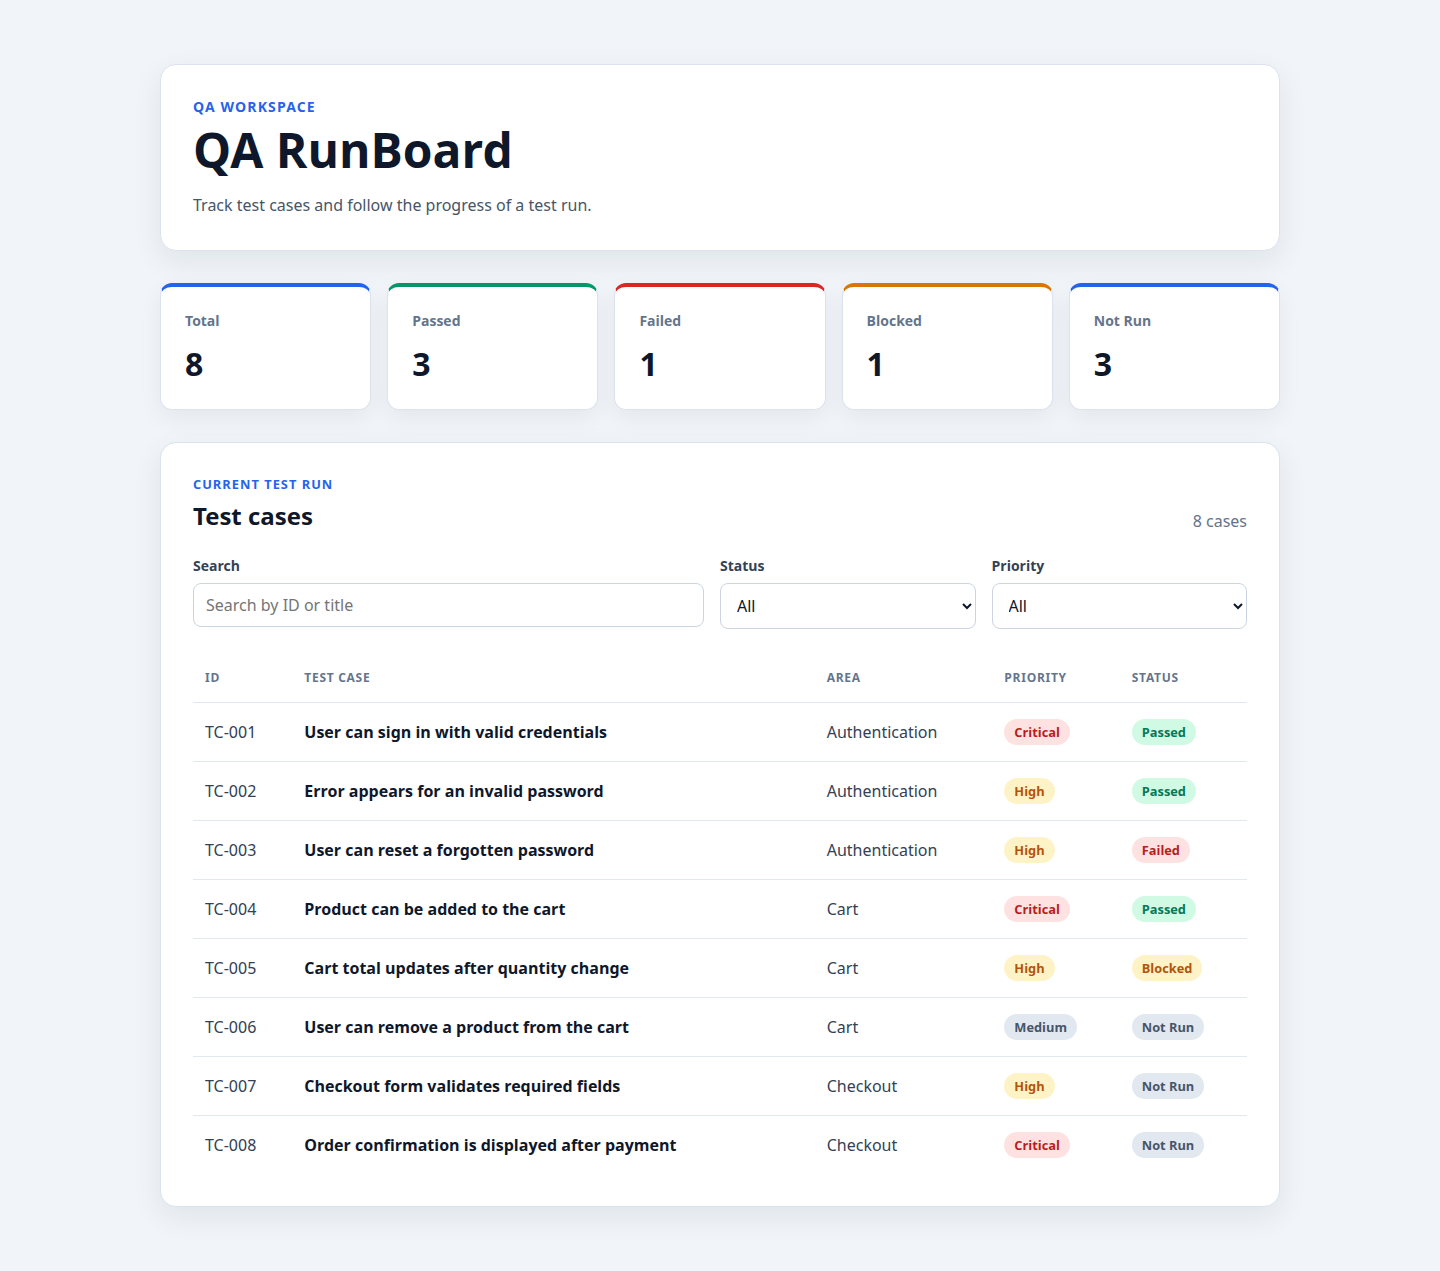
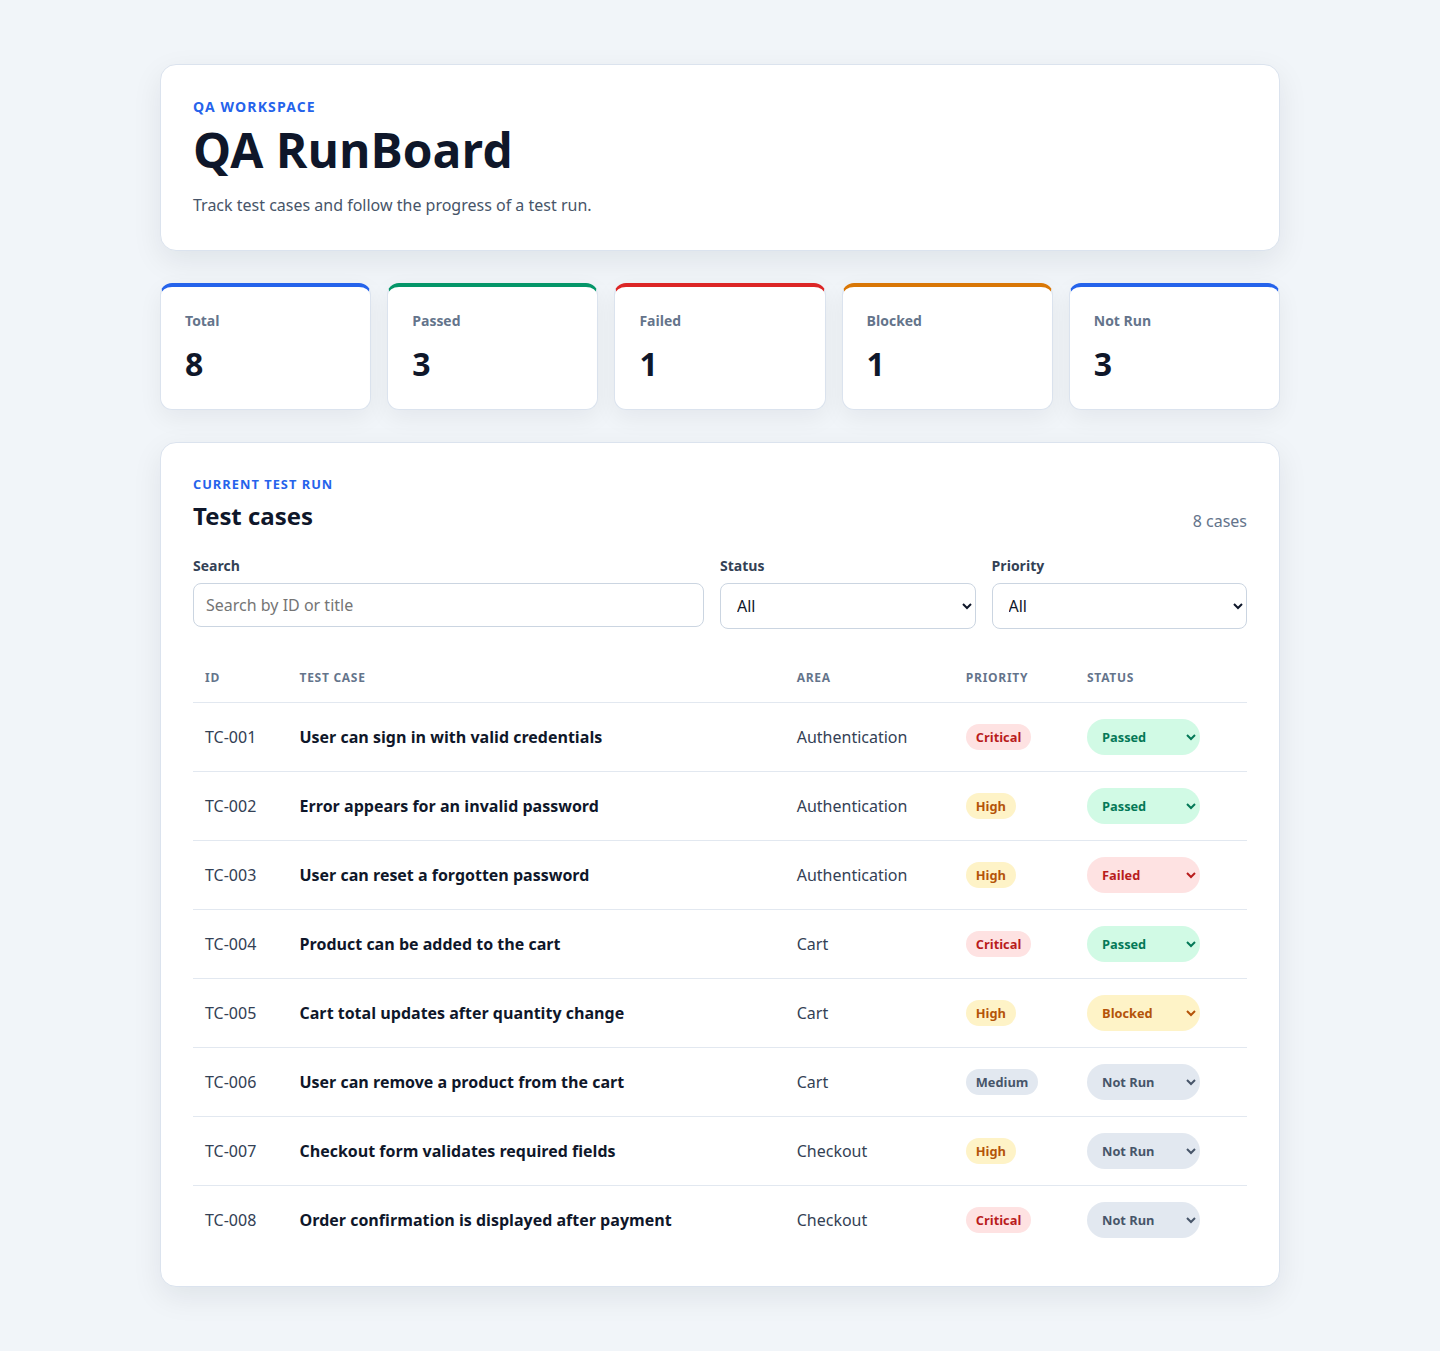
docs: update portfolio presentation

diff --git a/README.md b/README.md
@@ -8,13 +8,14 @@ QARunBoard is a small React and TypeScript test-run dashboard built to demonstra
 
 - Test case dashboard with ID, title, area, priority, and status
 - Summary cards for total, passed, failed, blocked, and not-run cases
+- Direct status changes from each test case row
 - Case-insensitive search by test case ID or title
 - Single-select Status and Priority filters that combine with search
 - Live visible-result count and an accessible empty state
 - Responsive table and filter layouts for desktop and narrow screens
 - Lightweight CSS design tokens, visible focus styles, labelled controls, and text-backed status badges
 
-The summary cards always represent the complete demo dataset; filtering changes only the visible table rows and result count.
+Status changes are intentionally in-memory only. Summary cards recalculate from the current test-case state, while Search, Status, and Priority filters remain consistent with those changes. Reloading restores the original demo data.
 
 ## Technology
 
@@ -37,7 +38,7 @@ When a requirement is materially unclear, the workflow calls for clarification i
 
 - Oxlint checks the source with `npm run lint`.
 - TypeScript and Vite create a production build with `npm run build`.
-- A Chromium-only Playwright journey validates loading, search, combined Status and Priority filters, the empty state, and full-dataset summary totals.
+- Chromium-only Playwright journeys validate loading, status changes, summary recalculation, reload reset, search, combined Status and Priority filters, and the empty state.
 - GitHub Actions runs dependency installation, lint, build, Chromium installation, and E2E tests on pushes to `main` and pull requests targeting `main`.
 
 ## Repository structure
@@ -90,6 +91,6 @@ Playwright starts the Vite application automatically for the E2E test.
 
 ## Current scope and future improvements
 
-QARunBoard currently uses a static local demo dataset. It does not include a backend, persistence, authentication, test-case editing, or live test-run integrations.
+QARunBoard currently uses a static local demo dataset. Status edits are in-memory only; it does not include a backend, persistence, authentication, broader test-case editing, or live test-run integrations.
 
 Potential future work could add persisted test runs, editing workflows, richer reporting, and broader automated coverage. These are possible extensions, not implemented features.
